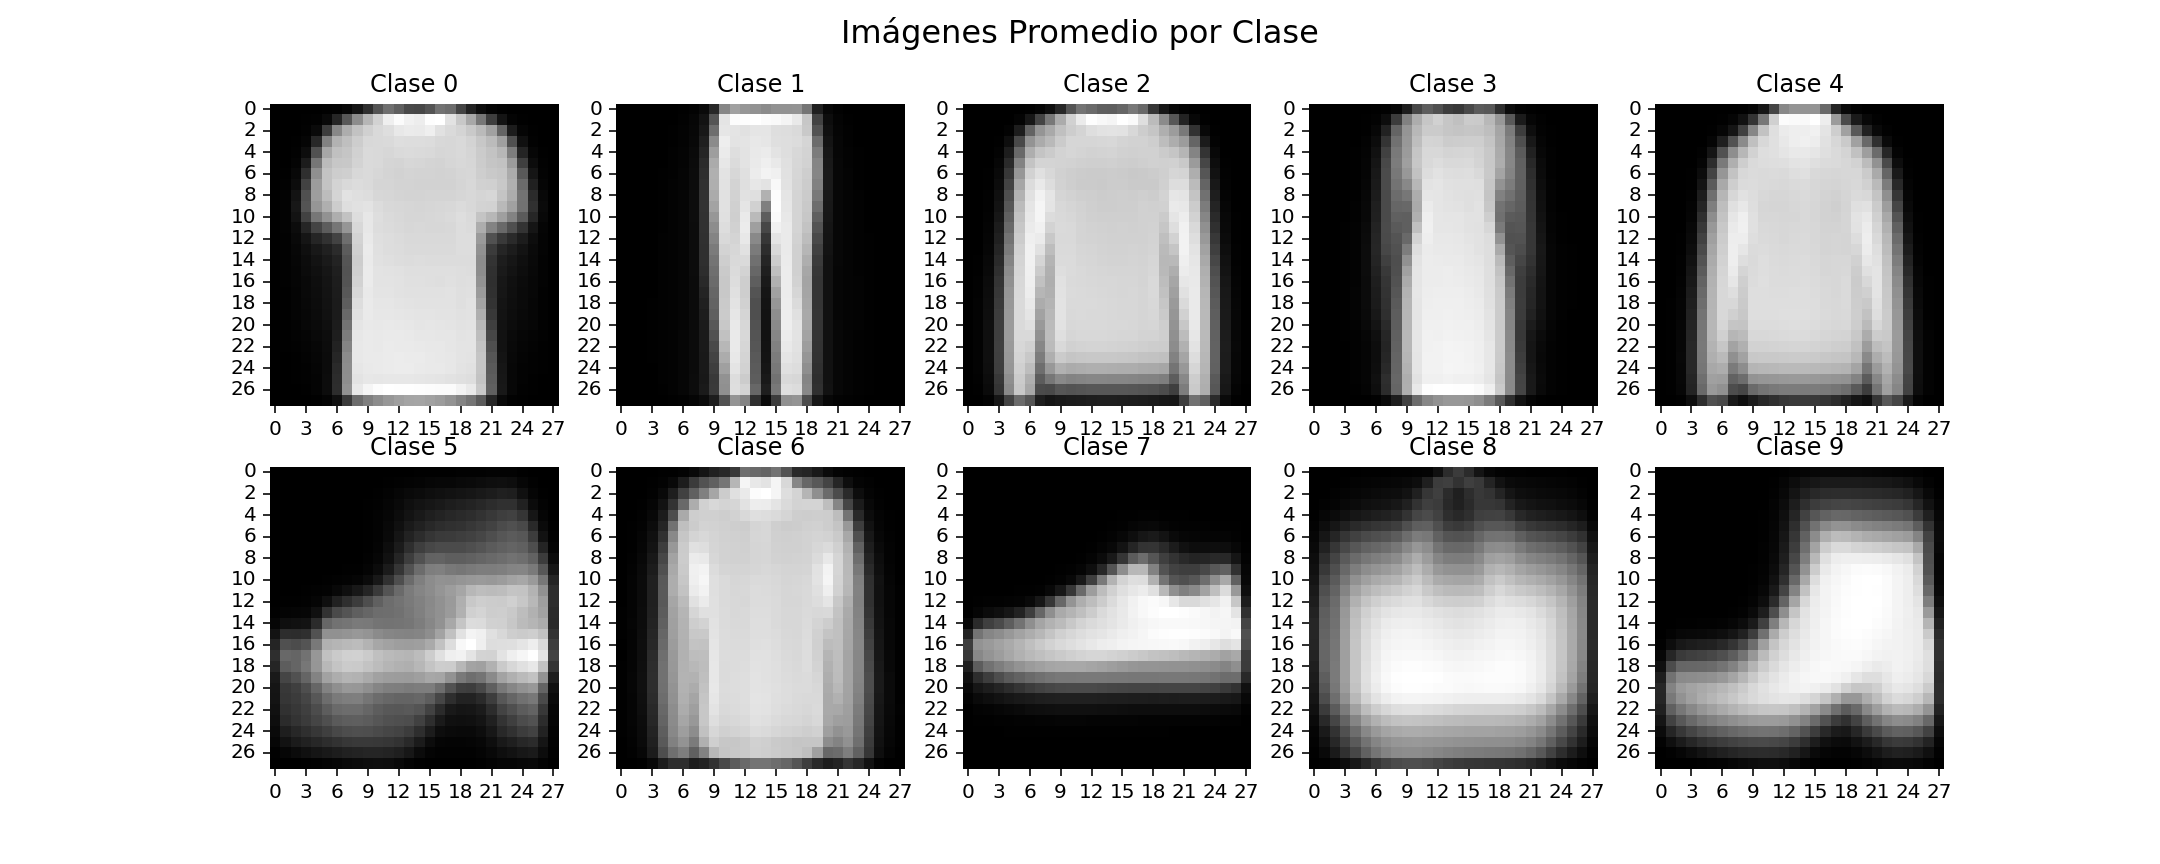
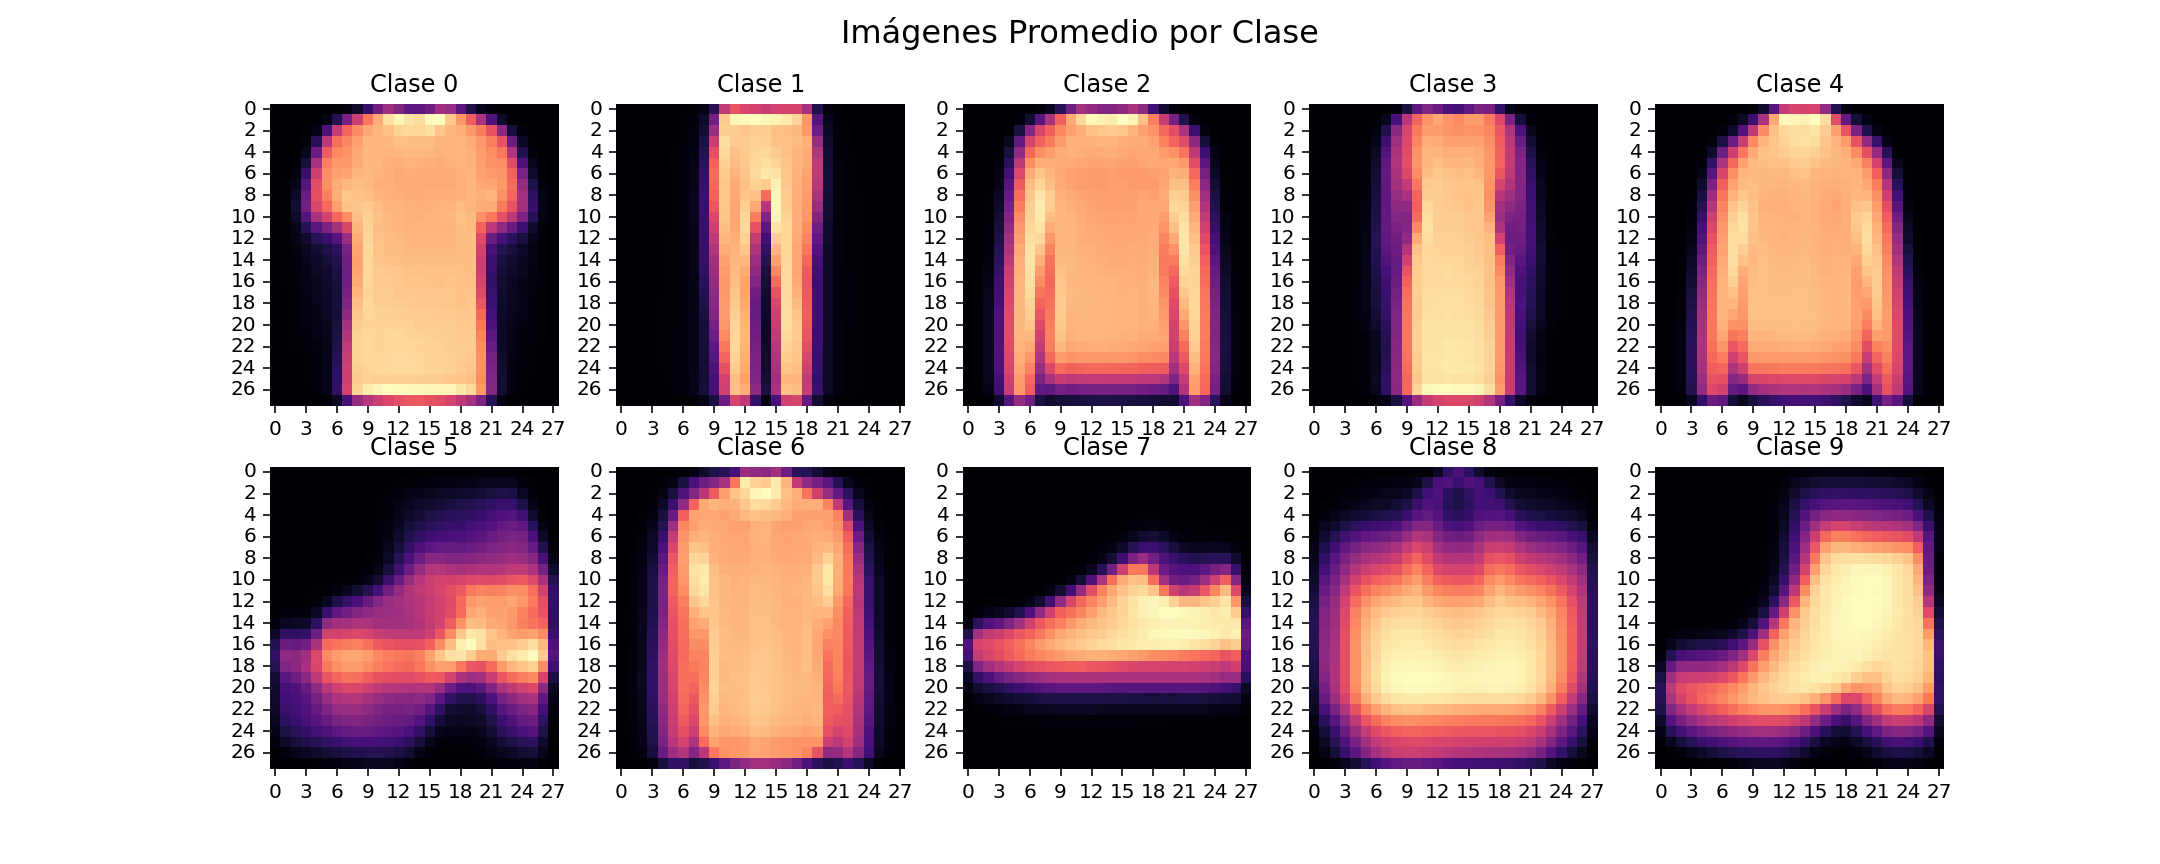
q

diff --git a/TP2/tomi_test.py b/TP2/tomi_test.py
@@ -52,7 +52,7 @@ fig.suptitle("Imágenes Promedio por Clase", fontsize=16)
 
 for i, ax in enumerate(axes.flat):
     imagen_promedio = heatmap_clases.iloc[i].values.reshape(28, 28)
-    sns.heatmap(imagen_promedio, ax=ax, cmap="grey", cbar= False)
+    sns.heatmap(imagen_promedio, ax=ax, cmap="magma", cbar= False)
     ax.set_title(f"Clase {i}")
 
 #%% Heatmap desviacion estandar
@@ -63,7 +63,7 @@ imagenes_clase_5 = data_df[data_df['label'] == 5].drop('label', axis=1).values
 desviacion = np.std(imagenes_clase_5, axis=0).reshape(28, 28)
 
 plt.figure(figsize=(6, 5))
-sns.heatmap(desviacion, cmap="magma")
+sns.heatmap(desviacion, cmap="magma", cbar = False)
 plt.title("Desviación estándar por píxel - Clase 5")
 plt.xlabel("Columna")
 plt.ylabel("Fila")
